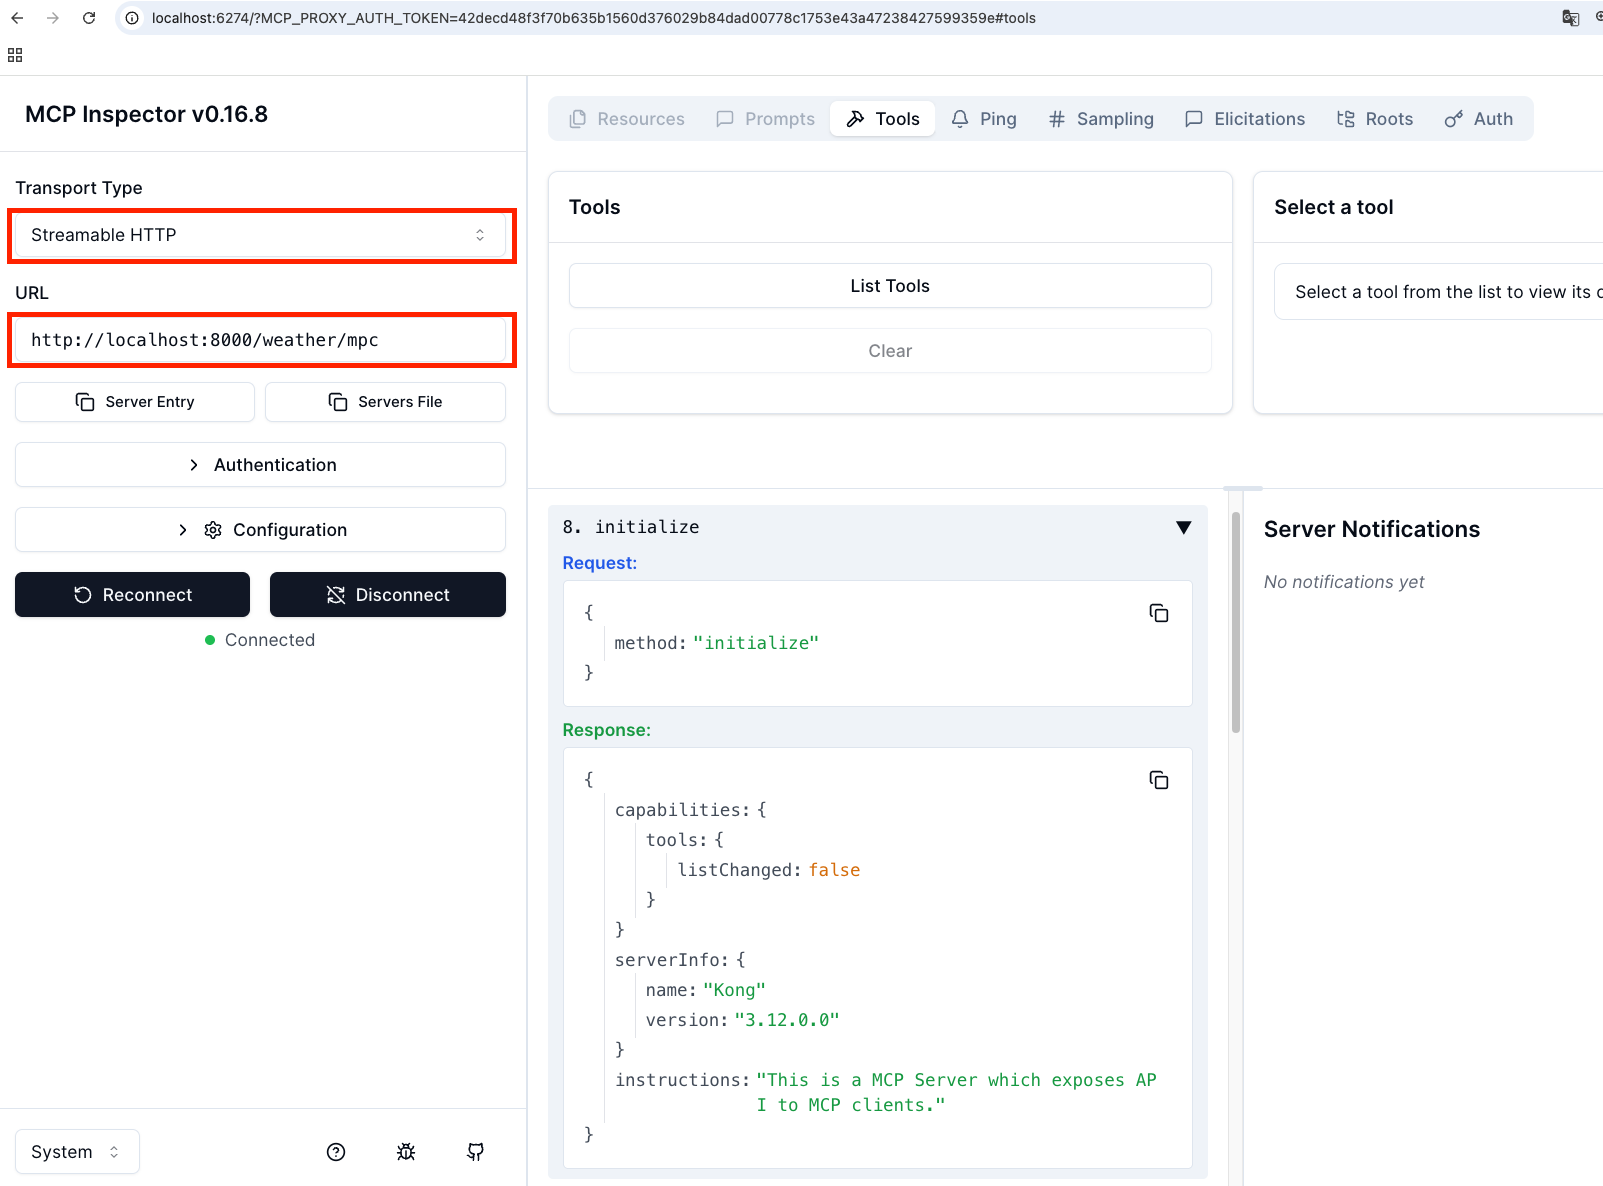
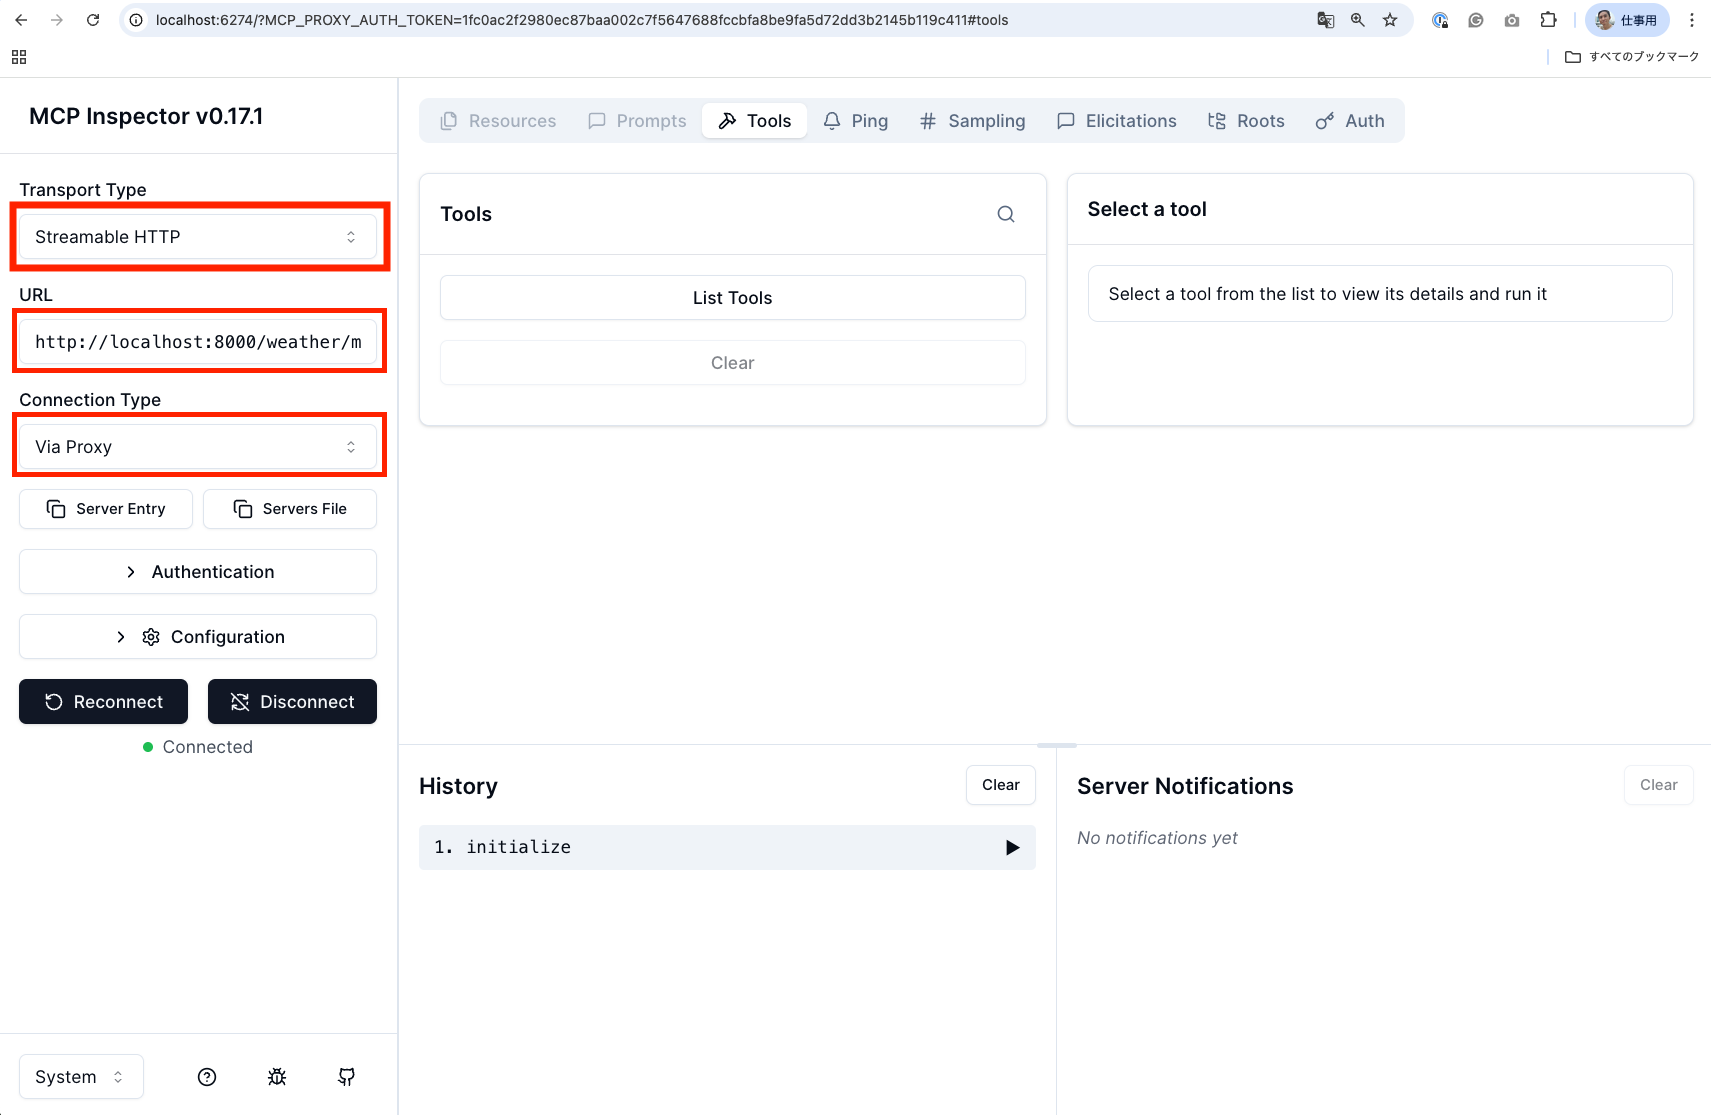
Update to 3.12 GA.

diff --git a/README.md b/README.md
@@ -6,9 +6,6 @@ Kong Gatewayの3.12で登場したMCP Proxy及びAI MCP OAuth2プラグインの
 > [!IMPORTANT] 
 > Kong Enterpriseのライセンスが必要です。
 
-> [!WARNING] 
-> 現時点ではKong Gateway 3.12がまだリリースされていない為、RC4のイメージを利用しています。
-
 ## ゲートウェイの立ち上げ
 1. Kong Gateway Enterpriseライセンスを`.env`に設定。
 2. 以下のコマンドを実行
@@ -63,13 +60,13 @@ Starting MCP inspector...
 ### MCP Inspectorを利用した接続確認
 MCP Inspector上で以下の設定の上、Connectをクリックして接続。
 - ```Transport Type```に```StreamableHTTP```を設定。
-- ```Authentication```の設定をクリア。
-- URLにMCP Proxyプラグインで指定したURL([http://localhost:8000/weather/mpc](http://localhost:8000/weather/mpc))を設定。
+- ```Connection Type```に```Via Proxy```を設定。
+- URLにMCP Proxyプラグインで指定したURL([http://localhost:8000/weather/mcp](http://localhost:8000/weather/mcp))を設定。
 ![MCP Inspector - ログイン後](/resources/mcp-inspector-after-login.png)
 接続Initializeの結果が反映されている事を確認。また、MCP Inspectorのログには以下の様に出力される。
 ```bash
 New StreamableHttp connection request
-Query parameters: {"url":"http://localhost:8000/weather/mpc","transportType":"streamable-http"}
+Query parameters: {"url":"http://localhost:8000/weather/mcp","transportType":"streamable-http"}
 Created StreamableHttp client transport
 Client <-> Proxy  sessionId: d537f628-a27a-4aa7-9dac-249ebf7e025b
 Proxy  <-> Server sessionId: 06178b76-a0a1-49ee-81f3-5f3b00c659e1
@@ -120,11 +117,10 @@ Response:
 - StreamableHTTPでは接続出来るが、SSEでの接続ではエラーとなる。
 
 ## 関連ドキュメンテーション
-> [!WARNING] 
-> 現時点ではKong Gateway 3.12がまだリリースされていない為、ドキュメントも公開前のバージョンを提示しています。
+[KongにおけるMCPサーバー機能の概要](https://developer.konghq.com/mcp/)
 
-[KongにおけるMCPサーバー機能の概要](https://deploy-preview-2720--kongdeveloper.netlify.app/mcp/)
+[サンプルチュートリアル](https://developer.konghq.com/mcp/kong-mcp/get-started/)
 
-[AI MCP Proxyプラグイン](https://deploy-preview-2720--kongdeveloper.netlify.app/plugins/ai-mcp-proxy/)
+[AI MCP Proxyプラグイン](https://developer.konghq.com/plugins/ai-mcp-proxy/)
 
-[AI MCP OAuthプラグイン](https://deploy-preview-2883--kongdeveloper.netlify.app/plugins/ai-mcp-oauth2/)
+[AI MCP OAuthプラグイン (Tech Preview)](https://developer.konghq.com/plugins/ai-mcp-oauth2/)
